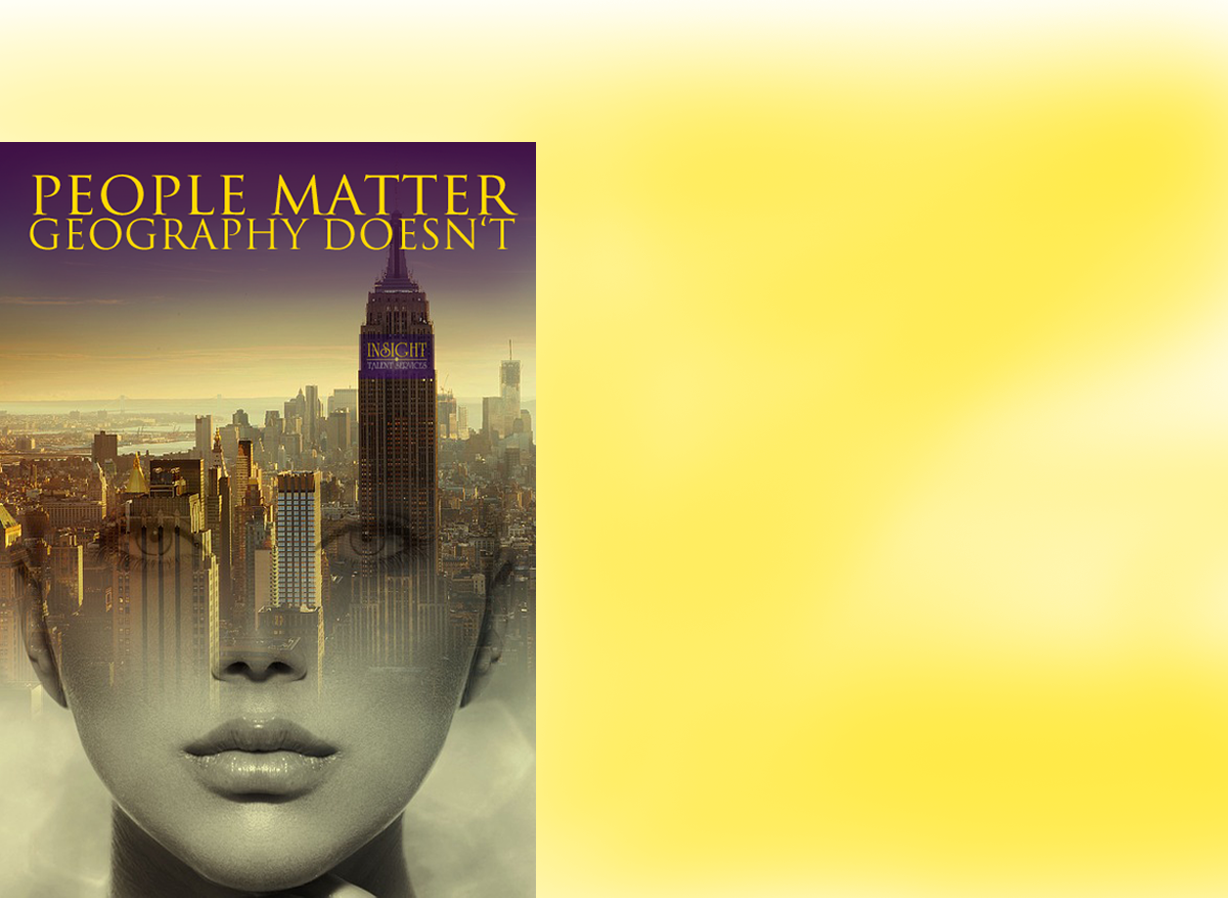
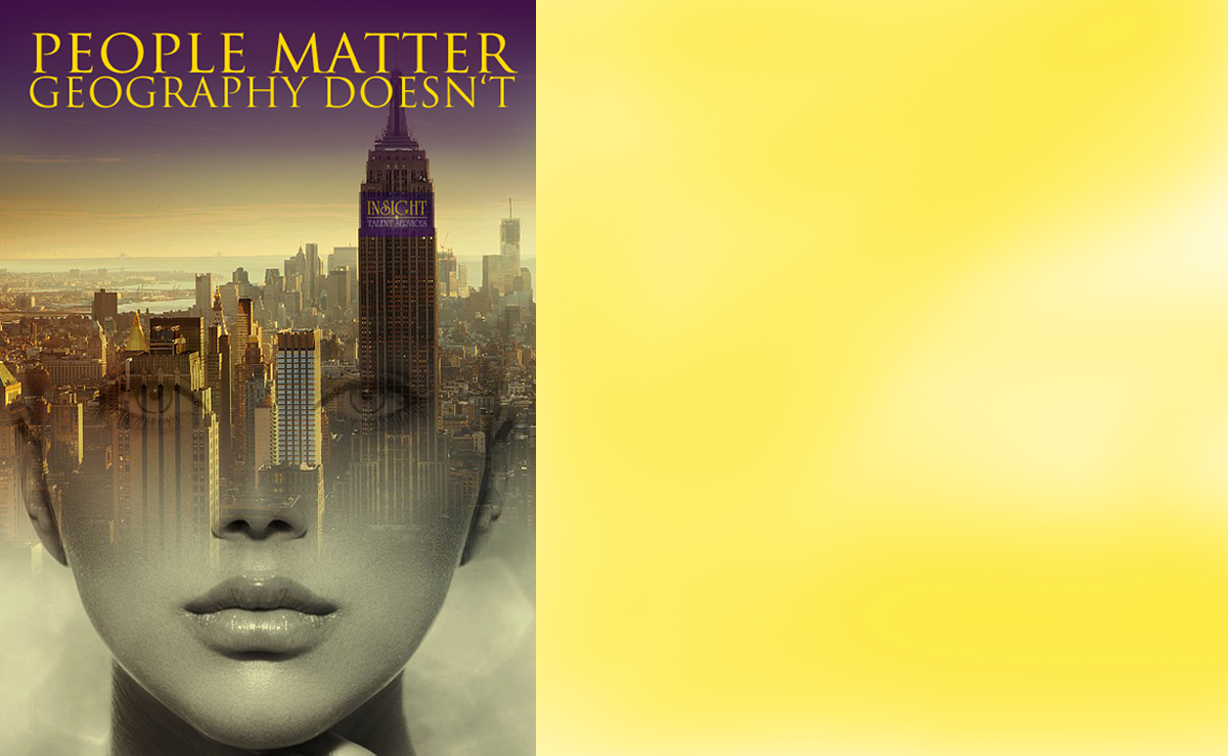
edit some blocks

diff --git a/style.css b/style.css
@@ -1,13 +1,21 @@
+@font-face {
+    font-family: 'COPRGTBold';
+    src: url('fonts/COPRGTB.ttf');
+}
+@font-face {
+    font-family: 'COPRGTLight';
+    src: url('fonts/COPRGTL.ttf');
+}
+
 body{
     margin: 0;
     padding: 0;
-    font-family: 'Copperplate Gothic', Arial, sans-serif;
-    font-weight: bold;
+    font-family: COPRGTBold, Arial, sans-serif;
 }
 header{
     background: url("img/header-bg.jpg") no-repeat center center;
     background-size: cover;
-    font-weight: lighter;
+    font-family: COPRGTLight, Arial, sans-serif;
 }
 .header::before{
     content: '';
@@ -42,7 +50,7 @@ header{
 }
 .header__info a{
     font-size: 17px;
-    line-height: 24px;
+    line-height: 21px;
     text-decoration: none;
     display: block;
     text-transform: uppercase;
@@ -63,6 +71,9 @@ header{
 .info__contacts a{
     text-align: right;
     color: #ffe300;
+}
+.info__contacts a[href^='mailto']{
+    font-size: 15px;
 }
 .info__contacts a:hover{
     color: #ffffff;
@@ -182,6 +193,7 @@ header{
     border-radius: 20px;
     padding: 5px 20px 10px;
     transition: .2s;
+    box-shadow: 2px 2px 10px #000;
 }
 .consulting a span{
     display: block;
@@ -198,7 +210,7 @@ header{
 
 .help{
     background: #FFF586 url("img/help-bg.png") no-repeat right top;
-    background-size: 100%;
+    background-size: 100% 100%;
 }
 .help::before{
     content: '';
@@ -221,7 +233,7 @@ header{
     line-height: 33px;
     color: #331758;
     margin-bottom: 50px;
-    font-weight: lighter;
+    font-family: COPRGTLight, Arial, sans-serif;
 }
 .help__bar{
     width: 40%;
@@ -296,7 +308,7 @@ header{
     margin: 0;
 }
 .help__item p{
-    font-weight: lighter;
+    font-family: COPRGTLight, Arial, sans-serif;
 }
 .help__img{
     height: 100px;
@@ -352,15 +364,14 @@ header{
 }
 .clients__item p{
     margin: 0 0 20px;
-    font-weight: lighter;
+    font-family: COPRGTLight, Arial, sans-serif;
     font-size: 25px;
     line-height: 25px;
     color: #ffffff;
 }
 .useBest{
     background: url("img/useBest-bg.png") no-repeat;
-    background-size: cover;
-    margin-top: -140px;
+    background-size: 100% 100%;
 }
 .useBest__wrapper{
     max-width: 1168px;
@@ -375,7 +386,7 @@ header{
     color: #300b58;
     font-size: 25px;
     line-height: 30px;
-    font-weight: lighter;
+    font-family: COPRGTLight, Arial, sans-serif;
     margin-bottom: 30px;
 }
 .useBest__content h6{
@@ -419,7 +430,7 @@ header{
 .useBest__item p{
     margin: 0;
     color: #fefefe;
-    font-weight: lighter;
+    font-family: COPRGTLight, Arial, sans-serif;
 }
 .advance{
     background-color: #fff;
@@ -484,7 +495,7 @@ header{
     color: #2b084d;
     font-size: 25px;
     line-height: 30px;
-    font-weight: lighter;
+    font-family: COPRGTLight, Arial, sans-serif;
 }
 .staff{
     position: absolute;
@@ -635,7 +646,14 @@ header{
 
 .salary{
     background: url("img/salary-bg.png") no-repeat right top;
-    background-size: cover;
+    background-size: 100% 100%;
+}
+.salary__img img{
+    max-width: 100%;
+    height: auto;
+}
+.salary__block > .salary__img{
+    display: none;
 }
 .salary__wrapper{
     max-width: 1168px;
@@ -657,7 +675,7 @@ header{
     width: 50%;
     font-size: 25px;
     line-height: 30px;
-    font-weight: lighter;
+    font-family: COPRGTLight, Arial, sans-serif;
     color: #300b36;
     margin-bottom: 80px;
 }
@@ -717,7 +735,7 @@ header{
     width: 85%;
     font-size: 25px;
     line-height: 30px;
-    font-weight: lighter;
+    font-family: COPRGTLight, Arial, sans-serif;
     color: #300b36;
 }
 
@@ -794,7 +812,7 @@ header{
     font-size: 25px;
     line-height: 30px;
     color: #ffffff;
-    font-weight: lighter;
+    font-family: COPRGTLight, Arial, sans-serif;
 }
 .plan__left{
     width: 55%;
@@ -823,7 +841,8 @@ header{
     font-size: 25px;
     line-height: 30px;
     color: #ffea00;
-    font-weight: lighter;
+    font-family: COPRGTLight, Arial, sans-serif;
+    margin-bottom: 20px;
 }
 .plan__right{
     width: 40%;
@@ -880,7 +899,7 @@ header{
     font-size: 25px;
     line-height: 27px;
     color: #fff;
-    font-weight: lighter;
+    font-family: COPRGTLight, Arial, sans-serif;
     text-align: center;
 }
 .plan__step1{
@@ -1013,7 +1032,7 @@ header{
     font-size: 25px;
     line-height: 30px;
     color: #fff600;
-    font-weight: lighter;
+    font-family: COPRGTLight, Arial, sans-serif;
 }
 .footer__title{
     position: relative;
@@ -1101,7 +1120,7 @@ header{
 }
 .footer__contacts{
     color: #ffffff;
-    font-weight: lighter;
+    font-family: COPRGTLight, Arial, sans-serif;
     font-size: 25px;
     line-height: 30px;
 }
@@ -1265,6 +1284,10 @@ header{
     .footer__btn a{
         font-size: 35px;
         line-height: 45px;
+    }
+    .salary__wrapper{
+        max-width: none;
+        padding: 100px 30px 30px;
     }
 }
 
@@ -1492,6 +1515,43 @@ header{
         margin-bottom: 100px;
         width: 50%;
     }
+    .salary__block > .salary__img{
+        display: block;
+    }
+    .salary__block > .salary__img img{
+        max-width: 100%;
+        height: auto;
+        width: 100%;
+        margin-bottom: 30px;
+    }
+    .salary{
+        background: none;
+    }
+    .salary__wrapper{
+        padding: 0;
+    }
+    .salary__map,
+    .salary__title,
+    .salary__items,
+    .salary__info{
+        width: 100%;
+    }
+    .salary__block:nth-child(2),
+    .salary__info{
+        padding: 0 30px;
+        box-sizing: border-box;
+    }
+    .salary__info{
+        margin-bottom: 30px;
+    }
+    .salary__map{
+        top: 50px;
+    }
+    .salary__btn a{
+        font-size: 25px;
+        line-height: 30px;
+    }
+
 }
 
 @media (max-width: 767px) {
@@ -1670,6 +1730,17 @@ header{
     .footer__btn a{
         font-size: 25px;
         line-height: 35px;
+    }
+    .salary__item b{
+        font-size: 40px;
+        line-height: 40px;
+    }
+    .salary__item{
+        font-size: 25px;
+        line-height: 20px;
+    }
+    .salary__btn{
+        width: 100%;
     }
 }
 

diff --git a/index.html b/index.html
@@ -309,38 +309,45 @@
     </div>
     <div class="salary">
         <div class="salary__wrapper">
-            <div class="salary__map">SALARY MAP</div>
-            <div class="salary__title"><b>Ukraine</b>
-                the most Attractive HR-Zones<br>
-                in the European Continent for the<br>
-                successful cost-reducing Oursourcing</div>
-            <div class="salary__items">
-                <div class="salary__item">
-                    <div class="salary__img">
-                        <img src="img/man.png" alt="">
+            <div class="salary__block">
+                <div class="salary__map">SALARY MAP</div>
+                <div class="salary__img">
+                    <img src="img/salary-img.png" alt="">
+                </div>
+            </div>
+            <div class="salary__block">
+                <div class="salary__title"><b>Ukraine</b>
+                    the most Attractive HR-Zones<br>
+                    in the European Continent for the<br>
+                    successful cost-reducing Oursourcing</div>
+                <div class="salary__items">
+                    <div class="salary__item">
+                        <div class="salary__img">
+                            <img src="img/man.png" alt="">
+                        </div>
                     </div>
-                </div>
-                <div class="salary__item">
-                    <div class="salary__img">
-                        <img src="img/people.png" alt="">
+                    <div class="salary__item">
+                        <div class="salary__img">
+                            <img src="img/people.png" alt="">
+                        </div>
                     </div>
-                </div>
-                <div class="salary__item">
-                    <div class="salary__text"><b>1 EU</b>
-                        employee‘s<br>
-                        labor cost</div>
-                </div>
-                <div class="salary__item equals"><b>=</b></div>
-                <div class="salary__item">
-                    <div class="salary__text"><b>10 UA</b>
-                        employees‘<br>
-                        labor cost
+                    <div class="salary__item">
+                        <div class="salary__text"><b>1 EU</b>
+                            employee‘s<br>
+                            labor cost</div>
                     </div>
-                </div>
-                <div class="salary__btn">
-                    <a href="">Calculate Your<br>
-                        Costs & Profit<br>
-                        <span>for free</span></a>
+                    <div class="salary__item equals"><b>=</b></div>
+                    <div class="salary__item">
+                        <div class="salary__text"><b>10 UA</b>
+                            employees‘<br>
+                            labor cost
+                        </div>
+                    </div>
+                    <div class="salary__btn">
+                        <a href="">Calculate Your<br>
+                            Costs & Profit<br>
+                            <span>for free</span></a>
+                    </div>
                 </div>
             </div>
             <div class="salary__info">
